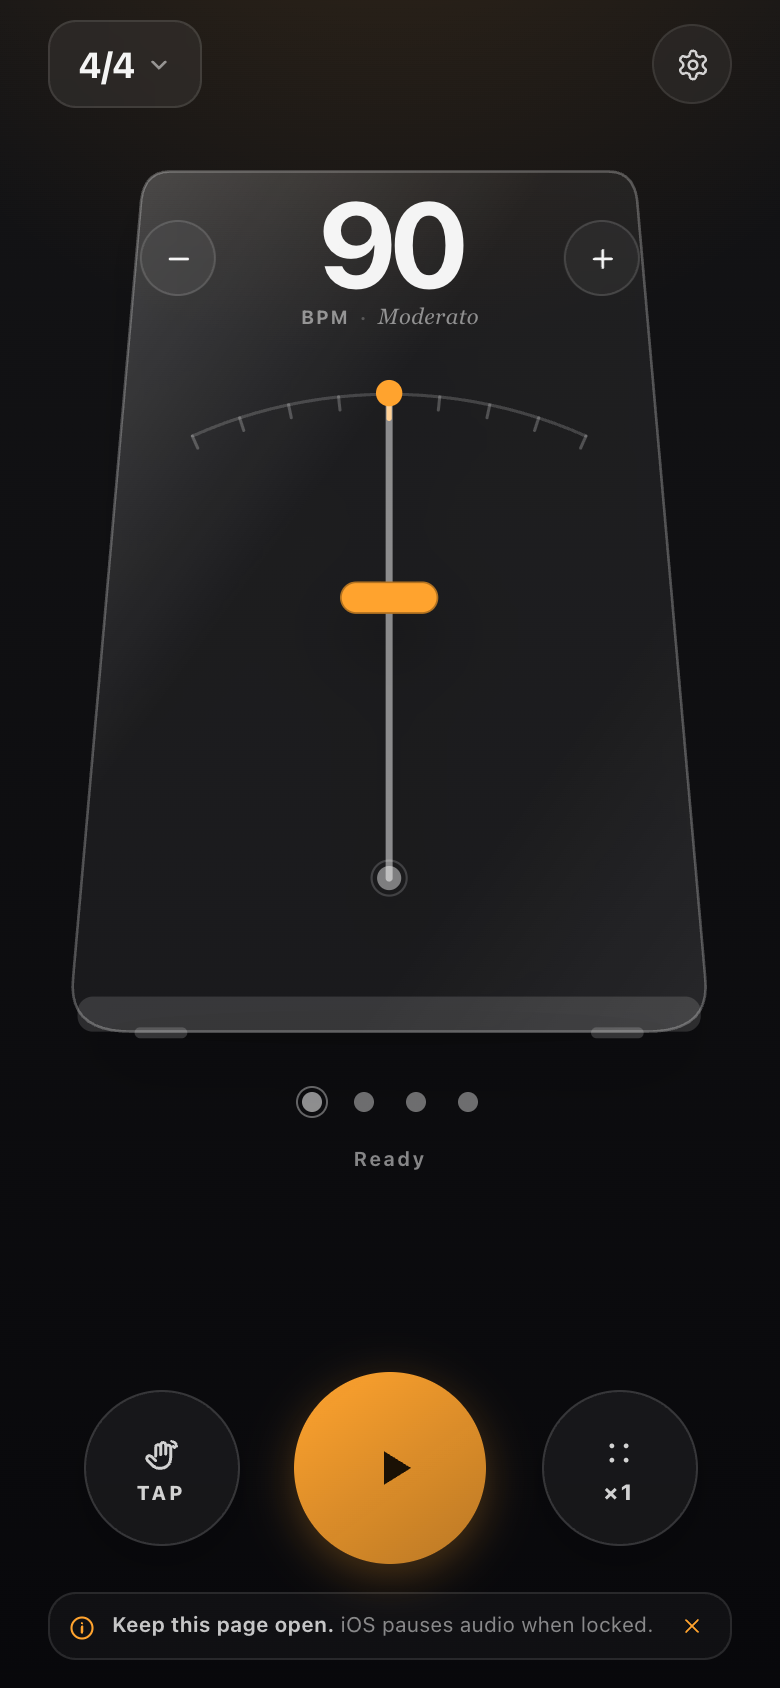
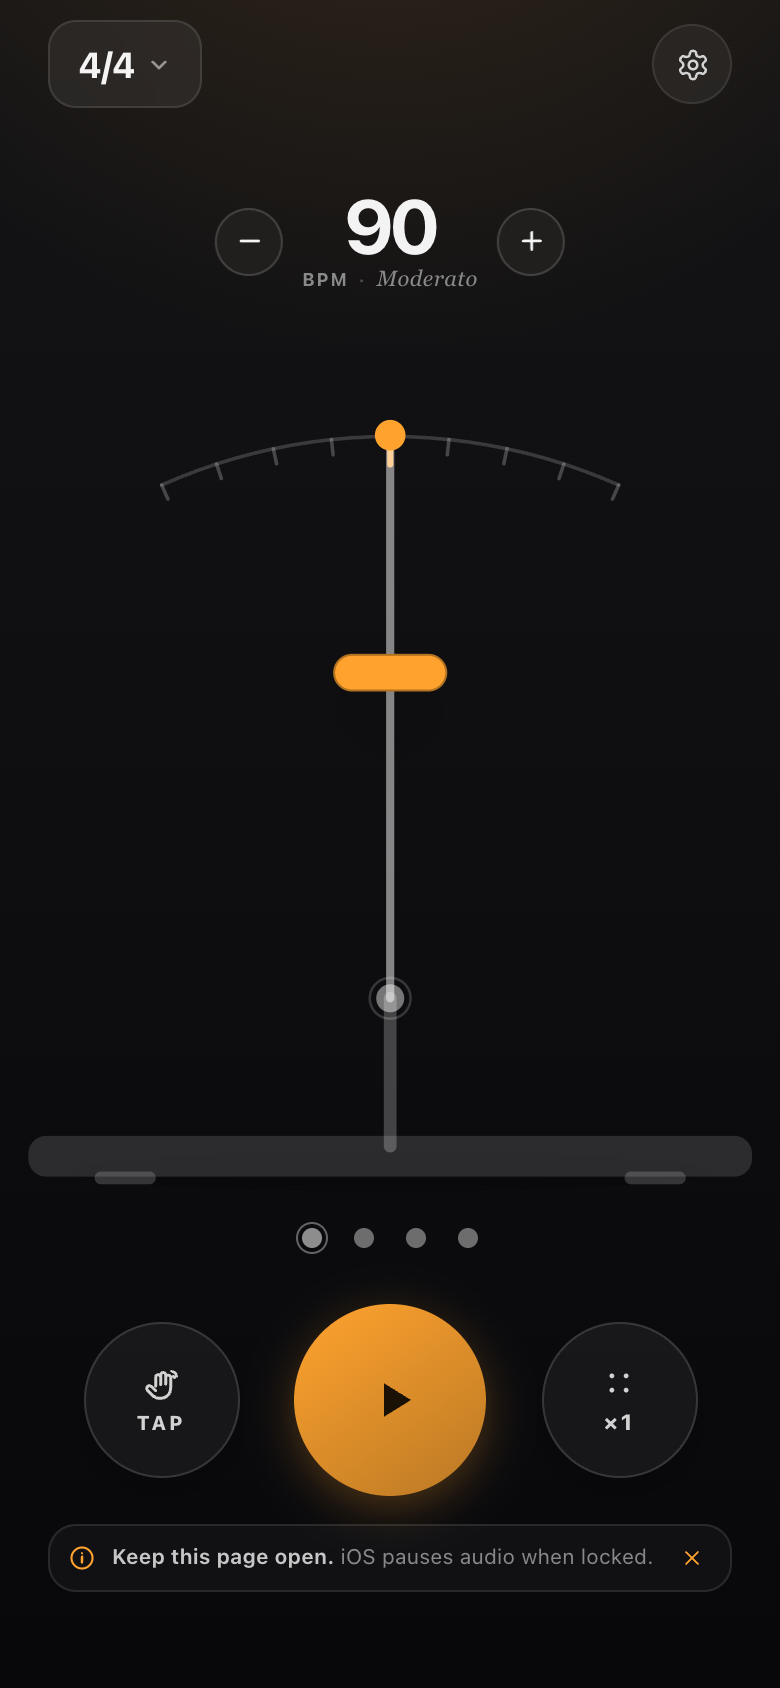
Remove cabinet frame and enlarge pendulum

diff --git a/Web/index.html b/Web/index.html
@@ -41,10 +41,6 @@
     --wood-muted: rgba(59, 41, 27, 0.58);
     --readout-button: rgba(255, 255, 255, 0.34);
     --readout-border: rgba(88, 55, 26, 0.16);
-    --glass-fill: rgba(36, 39, 42, 0.06);
-    --glass-edge: rgba(36, 39, 42, 0.34);
-    --glass-shadow: rgba(40, 34, 26, 0.22);
-    --glass-reflection: 0.55;
     --font: -apple-system, BlinkMacSystemFont, "SF Pro Text", "SF Pro Display", "PingFang SC", "Helvetica Neue", sans-serif;
     --rounded: ui-rounded, "SF Pro Rounded", -apple-system, BlinkMacSystemFont, "PingFang SC", sans-serif;
   }
@@ -75,10 +71,6 @@
     --wood-muted: rgba(244, 229, 209, 0.58);
     --readout-button: rgba(255, 255, 255, 0.08);
     --readout-border: rgba(255, 225, 190, 0.15);
-    --glass-fill: rgba(255, 255, 255, 0.055);
-    --glass-edge: rgba(255, 255, 255, 0.26);
-    --glass-shadow: rgba(0, 0, 0, 0.52);
-    --glass-reflection: 0.22;
   }
 
   @media (prefers-color-scheme: dark) {
@@ -108,11 +100,7 @@
       --wood-muted: rgba(244, 229, 209, 0.58);
       --readout-button: rgba(255, 255, 255, 0.08);
       --readout-border: rgba(255, 225, 190, 0.15);
-      --glass-fill: rgba(255, 255, 255, 0.055);
-      --glass-edge: rgba(255, 255, 255, 0.26);
-      --glass-shadow: rgba(0, 0, 0, 0.52);
-      --glass-reflection: 0.22;
-      }
+    }
   }
 
   * { box-sizing: border-box; }
@@ -157,7 +145,7 @@
     padding:
       calc(10px + env(safe-area-inset-top))
       24px
-      calc(14px + env(safe-area-inset-bottom));
+      calc(12px + env(safe-area-inset-bottom));
     display: flex;
     flex-direction: column;
   }
@@ -326,13 +314,13 @@
   }
 
   .state-line {
+    display: none;
     height: 18px;
     font-size: 10px;
     font-weight: 650;
     letter-spacing: 0.10em;
     color: var(--muted);
     font-variant-numeric: tabular-nums;
-    display: flex;
     align-items: center;
     gap: 7px;
   }
@@ -502,7 +490,7 @@
   .metronome {
     position: relative;
     isolation: isolate;
-    width: min(86vw, 330px, 39vh);
+    width: min(98vw, 430px, 47vh);
     aspect-ratio: 300 / 420;
     flex: 0 0 auto;
     touch-action: manipulation;
@@ -515,27 +503,17 @@
     width: 100%;
     height: 100%;
     overflow: visible;
-    filter: drop-shadow(0 18px 16px var(--glass-shadow));
+    filter: drop-shadow(0 18px 20px color-mix(in srgb, var(--shadow) 42%, transparent));
   }
 
   .metronome-floor {
     fill: color-mix(in srgb, var(--shadow) 30%, transparent);
   }
-  .metronome-reflection {
-    opacity: var(--glass-reflection);
-    pointer-events: none;
+  .metronome-post {
+    stroke: color-mix(in srgb, var(--text) 24%, transparent);
+    stroke-width: 5;
+    stroke-linecap: round;
   }
-  .metronome-body {
-    fill: var(--glass-fill);
-    stroke: var(--glass-edge);
-    stroke-width: 1.2;
-    stroke-linejoin: round;
-  }
-  .metronome-sheen,
-  .metronome-face,
-  .metronome-top,
-  .metronome-side,
-  .metronome-grain { display: none; }
   .metronome-base {
     fill: color-mix(in srgb, var(--text) 14%, transparent);
     stroke: none;
@@ -585,20 +563,21 @@
     top: 4.6%;
     left: 50%;
     transform: translateX(-50%);
-    width: 76%;
+    width: auto;
+    max-width: 88%;
     display: flex;
     align-items: center;
-    justify-content: space-between;
-    gap: 2px;
+    justify-content: center;
+    gap: clamp(8px, 2.5vw, 16px);
     z-index: 2;
-    padding: 8px 0;
+    padding: 6px 0;
   }
 
   .tempo-readout .step-button {
-    width: 38px;
-    height: 38px;
+    width: 34px;
+    height: 34px;
     flex: 0 0 auto;
-    border: 1px solid color-mix(in srgb, var(--text) 14%, transparent);
+    border: 1px solid color-mix(in srgb, var(--text) 16%, transparent);
     border-radius: 50%;
     background: color-mix(in srgb, var(--text) 4%, transparent);
     color: var(--text);
@@ -618,7 +597,7 @@
 
   .tempo-readout .bpm-number {
     font-family: var(--rounded);
-    font-size: clamp(46px, 15.5vw, 64px);
+    font-size: clamp(34px, 9.8vw, 44px); min-width: 1.8em;
     line-height: 0.89;
     font-weight: 700;
     letter-spacing: -0.055em;
@@ -636,7 +615,7 @@
     gap: 5px;
     white-space: nowrap;
     font-family: var(--rounded);
-    font-size: 9.5px;
+    font-size: 9px;
     font-weight: 700;
     letter-spacing: 0.08em;
     text-transform: uppercase;
@@ -652,7 +631,7 @@
     font-size: 11px;
   }
 
-  .metronome-section + .beat-section { padding-top: clamp(6px, 1.6vh, 14px); }
+  .metronome-section + .beat-section { padding-top: clamp(3px, 1vh, 7px); }
 
   /* ---------- slider (legacy, no longer rendered) ---------- */
 
@@ -720,8 +699,8 @@
   /* ---------- transport ---------- */
 
   .controls {
-    margin-top: auto;
-    padding-top: clamp(14px, 2.4vh, 28px);
+    margin-top: 14px;
+    padding-top: 0;
     display: flex;
     align-items: center;
     justify-content: center;
@@ -1353,9 +1332,9 @@
     .web-notice { margin-top: 2px; padding: 6px 8px; }
     .beat-section { padding-top: 6px; }
     .controls { margin-top: 14px; padding-top: 0; gap: 16px; }
-    .metronome { width: min(72vw, 244px); }
-    .tempo-readout .bpm-number { font-size: clamp(38px, 12vw, 46px); }
-    .tempo-readout .step-button { width: 30px; height: 30px; }
+    .metronome { width: min(80vw, 270px, 42vh); }
+    .tempo-readout .bpm-number { font-size: clamp(32px, 9.5vw, 40px); }
+    .tempo-readout .step-button { width: 32px; height: 32px; }
     .tempo-readout .step-button .icon { width: 13px; height: 13px; }
     .readout-meta { margin-top: 3px; font-size: 7px; }
     .readout-meta .italian { font-size: 9px; }
@@ -1375,10 +1354,10 @@
       padding-top: calc(6px + env(safe-area-inset-top));
       padding-bottom: calc(6px + env(safe-area-inset-bottom));
     }
-    .metronome { width: min(63vw, 208px); }
-    .tempo-readout { width: 74%; padding: 6px 6px; }
-    .tempo-readout .bpm-number { font-size: clamp(34px, 10.5vw, 40px); min-width: 2em; }
-    .tempo-readout .step-button { width: 28px; height: 28px; }
+    .metronome { width: min(70vw, 224px, 40vh); }
+    .tempo-readout { width: auto; max-width: 92%; padding: 4px 0; }
+    .tempo-readout .bpm-number { font-size: clamp(30px, 9.5vw, 36px); min-width: 2em; }
+    .tempo-readout .step-button { width: 30px; height: 30px; }
     .readout-meta { margin-top: 2px; font-size: 6.5px; }
     .readout-meta .italian { font-size: 8px; }
     .metronome-section { padding-top: 2px; }
@@ -1387,7 +1366,6 @@
     .beat-track { min-height: 18px; }
     .beat-dot { width: 13px; height: 13px; }
     .beat-dot::after { width: 7px; height: 7px; }
-    .state-line { height: 15px; }
     .status-line { height: 17px; }
     .web-notice { margin-top: 4px; padding: 6px 8px; font-size: 10.5px; }
   }
@@ -1457,38 +1435,7 @@
     <section class="metronome-section" aria-label="Metronome">
       <div id="metronome" class="metronome" role="group" aria-label="Metronome, 90 BPM">
         <svg id="metronomeSvg" class="metronome-svg" viewBox="0 0 300 420" aria-hidden="true">
-          <defs>
-            <linearGradient id="metronomeSheen" x1="0" y1="0" x2="1" y2="0">
-              <stop offset="0" stop-color="#ffffff" stop-opacity="0.22" />
-              <stop offset="0.42" stop-color="#ffffff" stop-opacity="0" />
-              <stop offset="1" stop-color="#000000" stop-opacity="0.13" />
-            </linearGradient>
-            <linearGradient id="metronomeTopShade" x1="0" y1="0" x2="0" y2="1">
-              <stop offset="0" stop-color="#ffffff" stop-opacity="0.22" />
-              <stop offset="1" stop-color="#000000" stop-opacity="0.14" />
-            </linearGradient>
-            <linearGradient id="glassSheen" x1="0" y1="0" x2="1" y2="1">
-              <stop offset="0" stop-color="#ffffff" stop-opacity="0.9" />
-              <stop offset="0.38" stop-color="#ffffff" stop-opacity="0" />
-              <stop offset="0.72" stop-color="#ffffff" stop-opacity="0" />
-              <stop offset="1" stop-color="#ffffff" stop-opacity="0.28" />
-            </linearGradient>
-          </defs>
-
           <ellipse class="metronome-floor" cx="150" cy="408" rx="126" ry="8" />
-          <path class="metronome-reflection" d="M 50 18 C 42 18 38 23 37 31 L 6 385 C 4 403 14 410 33 410 H 267 C 286 410 296 403 294 385 L 263 31 C 262 23 258 18 250 18 Z" fill="url(#glassSheen)" />
-          <path class="metronome-body" d="M 50 18 C 42 18 38 23 37 31 L 6 385 C 4 403 14 410 33 410 H 267 C 286 410 296 403 294 385 L 263 31 C 262 23 258 18 250 18 Z" />
-          <path class="metronome-sheen" d="M 50 18 C 42 18 38 23 37 31 L 6 385 C 4 403 14 410 33 410 H 267 C 286 410 296 403 294 385 L 263 31 C 262 23 258 18 250 18 Z" fill="url(#metronomeSheen)" />
-          <path class="metronome-side" d="M 50 18 C 42 18 38 23 37 31 L 6 385 C 4 403 14 410 33 410 L 46 397 L 55 59 C 56 51 60 48 67 48 Z" />
-          <path class="metronome-side" d="M 250 18 C 258 18 262 23 263 31 L 294 385 C 296 403 286 410 267 410 L 254 397 L 245 59 C 244 51 240 48 233 48 Z" />
-          <path class="metronome-top" d="M 50 18 H 250 C 258 18 262 23 263 31 L 265 45 H 35 L 37 31 C 38 23 42 18 50 18 Z" fill="url(#metronomeTopShade)" />
-          <path class="metronome-face" d="M 63 48 C 57 48 54 52 53 59 L 29 377 C 28 390 34 396 46 396 H 254 C 266 396 272 390 271 377 L 247 59 C 246 52 243 48 237 48 Z" />
-
-          <path class="metronome-grain" d="M 88 66 L 68 370" />
-          <path class="metronome-grain" d="M 111 58 L 98 382" />
-          <path class="metronome-grain" d="M 205 58 L 219 382" />
-          <path class="metronome-grain" d="M 229 66 L 247 370" />
-
           <g aria-hidden="true">
             <path id="pendulumArc" class="metronome-scale"></path>
             <g id="pendulumTicks"></g>
@@ -1501,6 +1448,7 @@
           </g>
 
           <circle class="metronome-pivot-ring" cx="150" cy="340" r="8"></circle>
+          <line class="metronome-post" x1="150" y1="340" x2="150" y2="398"></line>
           <circle class="metronome-pivot" cx="150" cy="340" r="5.5"></circle>
 
           <rect class="metronome-base" x="8" y="394" width="284" height="16" rx="7"></rect>

diff --git a/Web/sw.js b/Web/sw.js
@@ -1,5 +1,5 @@
 /* Tempo Web — offline cache. Bump CACHE_VERSION when assets change. */
-const CACHE_VERSION = "tempo-web-v24";
+const CACHE_VERSION = "tempo-web-v25";
 const APP_SHELL = [
   "./",
   "./index.html",

diff --git a/Web/README.md b/Web/README.md
@@ -106,7 +106,7 @@ ipconfig getifaddr en0
 
 ## 更新与排错
 
-- **改了文件但 iPhone 还看到旧版**：Service Worker 会优先返回缓存。把 `sw.js` 里的 `CACHE_VERSION` 递增（当前是 `tempo-web-v24`，下一次改成 `tempo-web-v25`），重新部署，再关闭 / 重开主屏幕图标。
+- **改了文件但 iPhone 还看到旧版**：Service Worker 会优先返回缓存。把 `sw.js` 里的 `CACHE_VERSION` 递增（当前是 `tempo-web-v25`，下一次改成 `tempo-web-v26`），重新部署，再关闭 / 重开主屏幕图标。
 - **点播放没有声音**：确认不是静音拨片、系统音量不是 0；先点一下页面任意按钮再点播放（iOS 要求用户手势后才能启动音频）；如果之前接过来电或耳机，刷新页面重试。
 - **屏幕自动变暗**：Safari 不支持 Wake Lock 时，网页无法阻止自动锁定。把自动锁定设为「永不」，或使用原生版。
 - **离线打不开**：Service Worker 只在 HTTPS 或 `localhost` 下工作；通过局域网 IP 的 HTTP 地址访问不会缓存。
